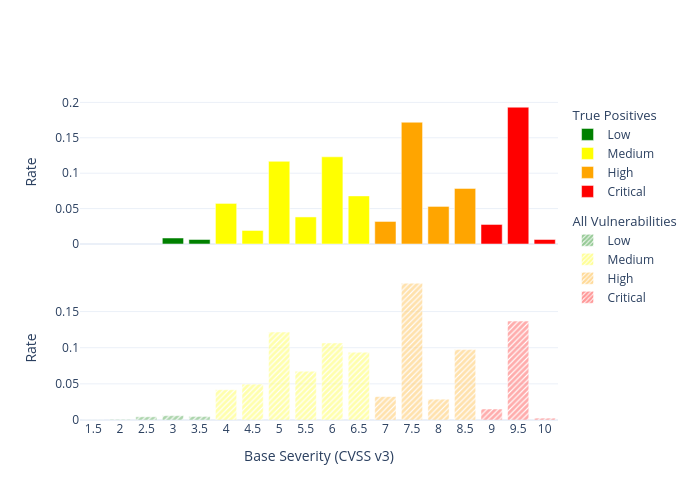
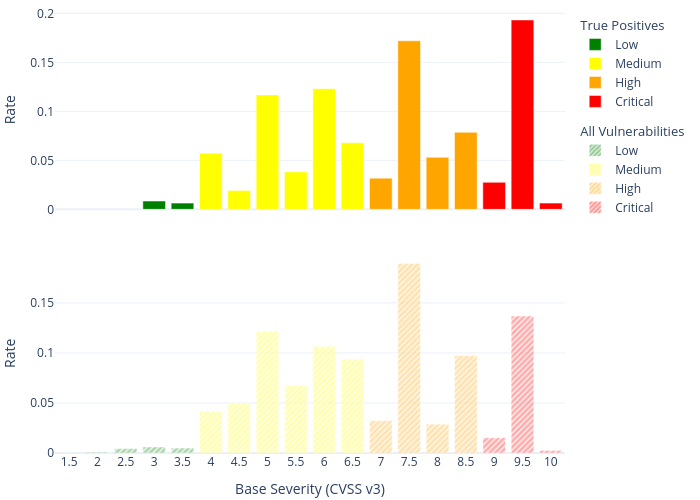
decrease margins in plotly figures

diff --git a/eyeballvul_experiments/results.py b/eyeballvul_experiments/results.py
@@ -215,6 +215,7 @@ def plot_overall_performance(
         width=800,
         height=600,
         font=dict(size=12),
+        margin=dict(t=5, l=5, r=5, b=5),
     )
     fig.write_image(Config.paths.plots / "overall_performance.png")
 
@@ -265,6 +266,7 @@ def plot_overall_performance(
         width=800,
         height=600,
         font=dict(size=12),
+        margin=dict(t=5, l=5, r=5, b=5),
     )
 
     fig.update_xaxes(rangemode="tozero")
@@ -558,6 +560,7 @@ def plot_performance_before_after_training_cutoff(
         height=600,
         font=dict(size=12),
         legend=dict(title="Model (Period)"),
+        margin=dict(t=5, l=5, r=5, b=5),
     )
 
     fig.update_xaxes(rangemode="tozero")
@@ -633,6 +636,7 @@ def plot_cwes_found(instruction_template_hash: str, scoring_model: str, top_n: i
         )
     fig.update_layout(
         template="plotly_white",
+        margin=dict(t=5, l=5, r=5, b=5),
         xaxis={"title": "Frequency among true positives", "tickformat": ",.0%"},
     )
     fig.write_image(Config.paths.plots / "cwes_found.png")
@@ -792,7 +796,7 @@ def plot_cve_severities(instruction_template_hash: str, scoring_model: str):
                 col=1,
             )
     nticks = len(set(tp_cve_severities_05.keys() | set(all_cve_severities_05.keys()))) + 1
-    fig.update_layout(template="plotly_white")
+    fig.update_layout(template="plotly_white", margin=dict(t=5, l=5, r=5, b=5))
 
     fig.update_xaxes(title_text="Base Severity (CVSS v3)", nticks=nticks, row=2, col=1)
     fig.update_yaxes(title_text="Rate", row=1, col=1)
@@ -877,6 +881,7 @@ def plot_costs(instruction_template_hash: str, scoring_model: str, model_order: 
         barmode="group",
         template="plotly_white",
         showlegend=False,
+        margin=dict(t=5, l=5, r=5, b=5),
     )
     fig.update_yaxes(row=1, col=1, tickprefix="$")
     fig.update_yaxes(row=1, col=1, range=[0, df["inference_cost_per_tp"].max() * 1.4])

diff --git a/eyeballvul_experiments/eyeballvul_stats.py b/eyeballvul_experiments/eyeballvul_stats.py
@@ -72,6 +72,7 @@ def plot_repo_size_histogram():
         legend=dict(
             x=0.01, y=0.99, bgcolor="rgba(255, 255, 255, 0)", bordercolor="rgba(255, 255, 255, 0)"
         ),
+        margin=dict(t=5, l=5, r=5, b=5),
     )
 
     fig.write_image(Config.paths.plots / "repo_size_histogram.png")
@@ -184,6 +185,7 @@ def plot_commits_and_vulns_by_date():
             x=0.01, y=0.99, bgcolor="rgba(255, 255, 255, 0)", bordercolor="rgba(255, 255, 255, 0)"
         ),
         font_size=35,
+        margin=dict(t=5, l=5, r=5, b=5),
     )
 
     fig.write_image(Config.paths.plots / "commits_and_vulns_by_date.png", width=1920, height=1080)
